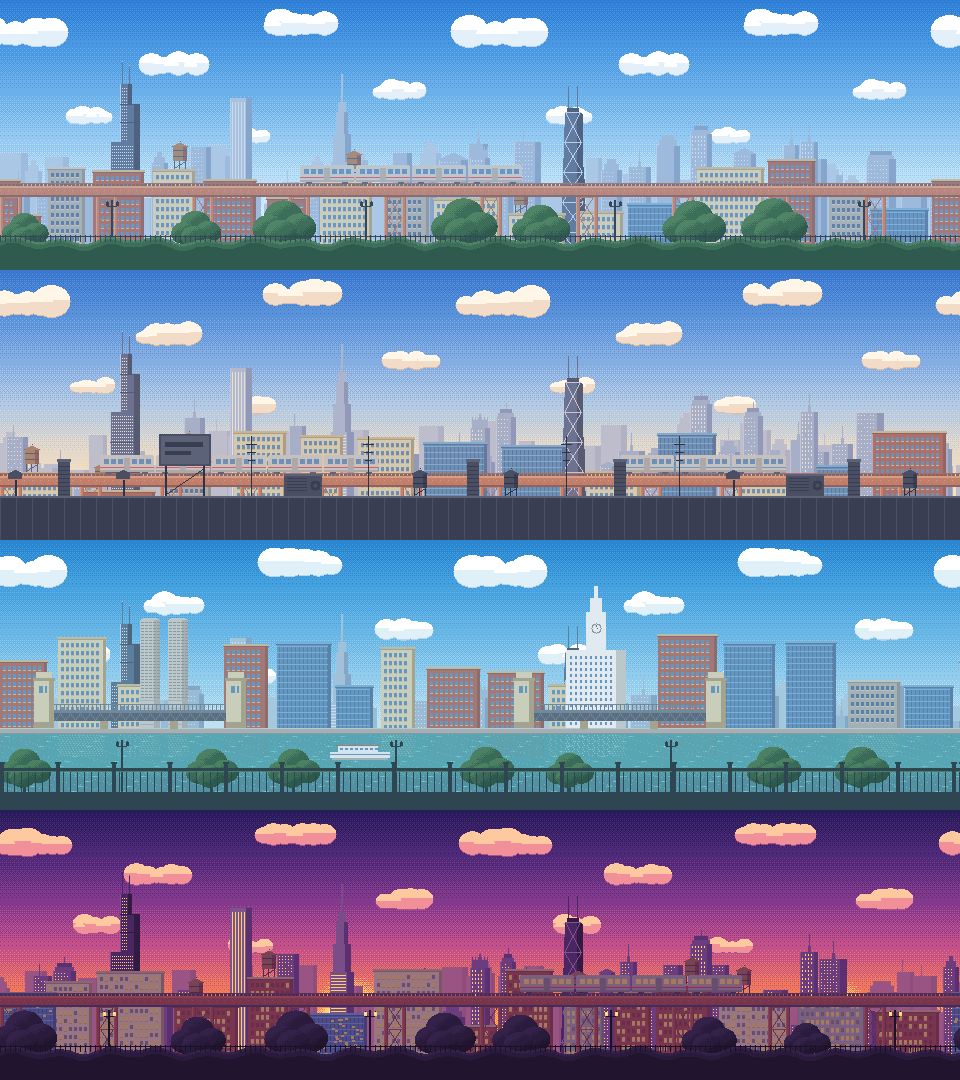
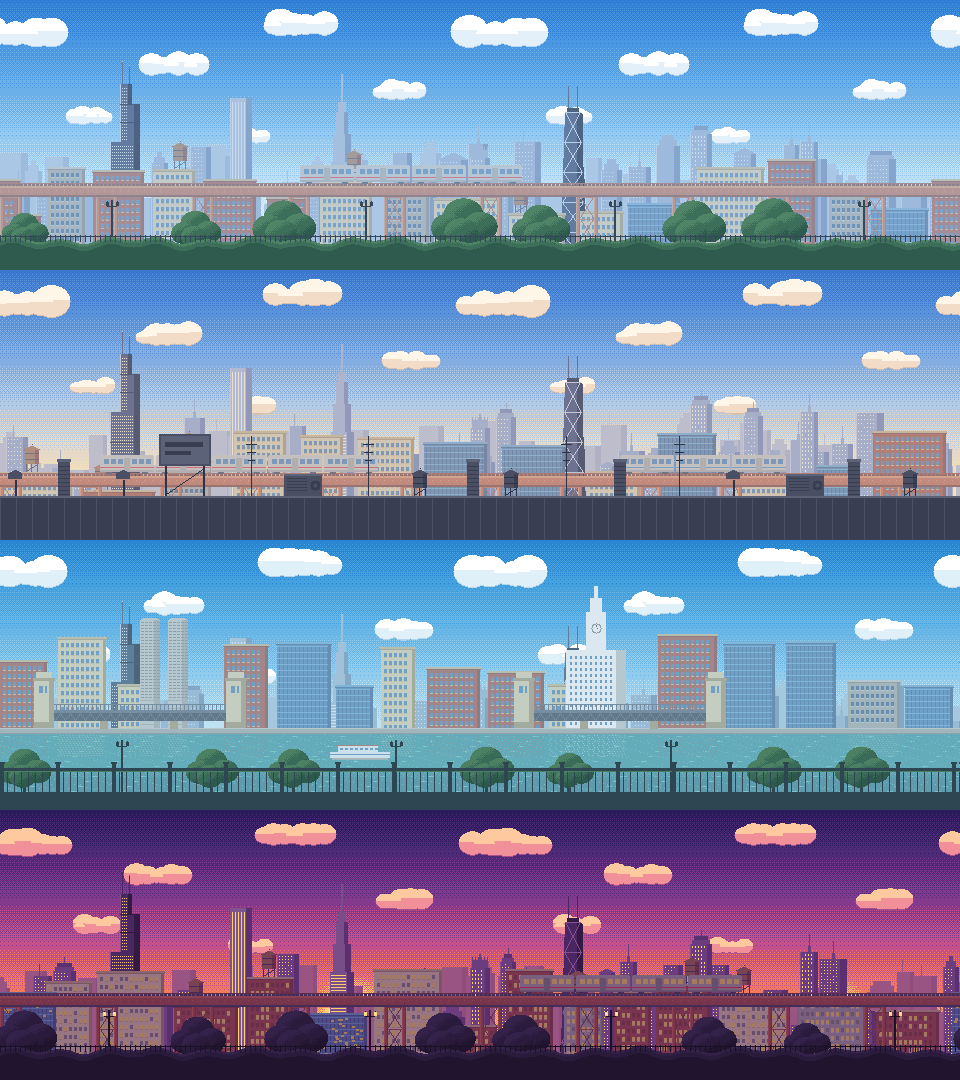
Art: hazier mid parallax layers, environment art validator and README
Claude-Session: https://claude.ai/code/session_01YMm4GmncJ8U4FPECy6uPid

Changed region(s): [[0.0, 0.1222, 1.0, 0.2444]]

diff --git a/tools/art/validate_env.py b/tools/art/validate_env.py
@@ -1,0 +1,101 @@
+#!/usr/bin/env python3
+"""Validate environment art (tileset, backgrounds, shared atlases) against
+src/game/data/assets.ts and tiles.ts. Exit 1 on failure.
+
+Checks: tileset size 256x64; every ATLAS.<key>.frames name exists; every anim has
+>= 2 frames `<anim>_0..n` contiguous; frames inside the sheet; hard alpha; sky layers
+opaque 270px tall; far/mid/near 270 tall with width a multiple of 480 and opaque
+pixels only in the lower part; logo / world-map present.
+"""
+import json
+import os
+import re
+import sys
+
+from PIL import Image
+
+ROOT = os.path.abspath(os.path.join(os.path.dirname(__file__), "..", ".."))
+A = os.path.join(ROOT, "public", "assets")
+errors = []
+
+
+def parse_atlas_contract():
+    src = open(os.path.join(ROOT, "src/game/data/assets.ts")).read()
+    body = src[src.index("export const ATLAS = {"):src.index("} as const;", src.index("export const ATLAS = {"))]
+    out = {}
+    for m in re.finditer(r"\n  (\w+): \{(.*?)\n  \},", body, re.S):
+        key = m.group(1)
+        blk = m.group(2)
+        def arr(name):
+            mm = re.search(name + r":\s*\[(.*?)\]", blk, re.S)
+            return re.findall(r"'([^']+)'", mm.group(1)) if mm else []
+        out[key] = (arr("frames"), arr("anims"))
+    return out
+
+
+def check_hard_alpha(im, label):
+    a = im.getchannel("A")
+    bad = [v for v, n in enumerate(a.histogram()) if n and v not in (0, 255)]
+    if bad:
+        errors.append(f"{label}: soft alpha values {bad[:5]}")
+
+
+def main():
+    t = Image.open(os.path.join(A, "tilesets", "chicago-tiles.png"))
+    if t.size != (256, 64):
+        errors.append(f"tileset size {t.size}")
+    check_hard_alpha(t.convert("RGBA"), "tileset")
+    for key, (frames, anims) in parse_atlas_contract().items():
+        jp = os.path.join(A, key + ".json")
+        if not os.path.exists(jp):
+            errors.append(f"missing atlas {key}")
+            continue
+        data = json.load(open(jp))["frames"]
+        sheet = Image.open(os.path.join(A, key + ".png")).convert("RGBA")
+        check_hard_alpha(sheet, key)
+        for f in frames:
+            if f not in data:
+                errors.append(f"{key}: missing frame {f}")
+        for an in anims:
+            n = 0
+            while f"{an}_{n}" in data:
+                n += 1
+            if n < 2:
+                errors.append(f"{key}: anim {an} has {n} frames")
+            sizes = {(data[f"{an}_{i}"]["frame"]["w"], data[f"{an}_{i}"]["frame"]["h"]) for i in range(n)}
+            if len(sizes) > 1:
+                errors.append(f"{key}: anim {an} mixed sizes {sizes}")
+        for name, fr in data.items():
+            r = fr["frame"]
+            if r["x"] + r["w"] > sheet.width or r["y"] + r["h"] > sheet.height:
+                errors.append(f"{key}:{name} outside sheet")
+            elif sheet.crop((r["x"], r["y"], r["x"] + r["w"], r["y"] + r["h"])).getbbox() is None:
+                errors.append(f"{key}:{name} empty")
+    for theme in ("day", "rooftop", "river", "sunset"):
+        for layer in ("sky", "far", "mid", "near"):
+            p = os.path.join(A, "backgrounds", f"bg-{theme}-{layer}.png")
+            if not os.path.exists(p):
+                errors.append(f"missing {p}")
+                continue
+            im = Image.open(p).convert("RGBA")
+            if im.height != 270 or im.width % 480:
+                errors.append(f"{p}: size {im.size}")
+            check_hard_alpha(im, p)
+            if layer == "sky" and im.getchannel("A").getextrema()[0] != 255:
+                errors.append(f"{p}: sky not opaque")
+            if layer != "sky":
+                bb = im.getbbox()
+                if bb and bb[1] < 40:
+                    errors.append(f"{p}: content reaches y={bb[1]}")
+                # columns 0 and w-1 should continue each other (wrap); just ensure both drawn similarly
+    for f in ("logo.png", "world-map.png"):
+        if not os.path.exists(os.path.join(A, f)):
+            errors.append(f"missing {f}")
+    if errors:
+        print("\n".join(errors))
+        sys.exit(1)
+    print("environment art OK")
+
+
+if __name__ == "__main__":
+    main()

diff --git a/tools/art/draw_backgrounds.py b/tools/art/draw_backgrounds.py
@@ -49,21 +49,21 @@ THEMES = {
         sky=["2f7fd6", "4a97e2", "6cb0ea", "93c8f0", "bde0f6", "dff1fb"],
         cloud="ffffff", cloud2="e3f0fa", cloud3="bcd6ee",
         haze="b9d8f2", far=["9db9db", "86a5cc", "7392bd", "b7cfe8"], far_win="c8dcf0",
-        mid_haze="a9c8e6", mid_t=0.42, near=["3d6e5a", "2f5a4e", "4f8466"], near_metal="34485a", near_t=0.2,
+        mid_haze="a9c8e6", mid_t=0.56, near=["3d6e5a", "2f5a4e", "4f8466"], near_metal="34485a", near_t=0.2,
         lamp_glow=None,
     ),
     "rooftop": dict(
         sky=["3b78cf", "5a92da", "84ade2", "b4c9e2", "e6d9c8", "f8e2b8"],
         cloud="fff6e8", cloud2="f2dcc8", cloud3="d7bfb0",
         haze="d8d0d0", far=["a7aec8", "9198b8", "7f86a8", "c4c6d6"], far_win="e8e0d0",
-        mid_haze="c2bcc4", mid_t=0.38, near=["4a4f63", "3a3e52", "5c6278"], near_metal="2f3346", near_t=0.15,
+        mid_haze="c2bcc4", mid_t=0.5, near=["4a4f63", "3a3e52", "5c6278"], near_metal="2f3346", near_t=0.15,
         lamp_glow=None,
     ),
     "river": dict(
         sky=["2a86d0", "45a0de", "68b6e6", "92cced", "bfe2f2", "e2f4f8"],
         cloud="ffffff", cloud2="e0f0f8", cloud3="b8d4e8",
         haze="b2d8ea", far=["98bcd6", "82a8c6", "6f95b8", "b4d0e4"], far_win="c8e0ee",
-        mid_haze="a4cce2", mid_t=0.40, near=["3a6a58", "2d584c", "4b8062"], near_metal="2e4652", near_t=0.18,
+        mid_haze="a4cce2", mid_t=0.5, near=["3a6a58", "2d584c", "4b8062"], near_metal="2e4652", near_t=0.18,
         lamp_glow=None,
     ),
     "sunset": dict(

diff --git a/tools/art/README.md b/tools/art/README.md
@@ -77,3 +77,81 @@ room (logged by the script). Physics bodies should be sized in code, not from fr
   walk cycles.
 - Small sources at 2.5-2.8x downscale (parker, lupin, gnat) lose some facial detail.
 - Some gnat/wasp/skirmisher die frames keep small spark bits from the sheet.
+
+---
+
+# Environment art (tiles, backgrounds, items, props, effects, platforms, UI, logo, map)
+
+Everything below is drawn procedurally in PIL at native resolution (no AI pixels):
+named palette + hard alpha + 1px dark (`ink` #1a1c2c) outlines on sprites, seeded RNG,
+so every output is reproducible. Shared helpers live in `pxl.py` (palette `P`, canvas
+`Cv`, 3x5 `FONT3` / 5x7 `FONT5` pixel fonts, `pack_atlas` → Phaser JSON Hash,
+`contact_sheet` previews).
+
+```sh
+python3 tools/art/draw_backgrounds.py   # public/assets/backgrounds/bg-<theme>-<layer>.png
+python3 tools/art/draw_tiles.py         # public/assets/tilesets/chicago-tiles.png (+ tiles-demo uses the day bg)
+python3 tools/art/draw_items.py         # items.png/json + ui.png/json
+python3 tools/art/draw_props.py         # props.png/json
+python3 tools/art/draw_effects.py       # effects.png/json
+python3 tools/art/draw_platforms.py     # platforms.png/json
+python3 tools/art/draw_logo_map.py      # logo.png, world-map.png, pixel-font.png
+python3 tools/art/validate_env.py       # contract checks for all of the above
+node tools/art/build-manifest.mjs
+```
+
+Previews in `art/previews/`: `tiles-sheet.png` (indexed), `tiles-seams.png` (3x4 self-tiling
+check of every fill under its top tile), `tiles-demo.png` (sample scene over the day
+parallax), `backgrounds.png` (all four themes composited), `items/ui/props/effects/platforms.png`,
+`logo.png`, `world-map.png`.
+
+## Tileset
+`chicago-tiles.png` 256x64, order generated from `src/game/data/tiles.ts` (the script parses
+the contract and asserts every name is drawn). Fill tiles are 16px-periodic; every `*_TOP`
+tile is its fill pattern with a bright walkable top band. Open/partial tiles (GIRDER_X,
+GIRDER_POST, SCAFFOLD_*, CHAIN_FENCE, PIPE_H, WOOD_POST, BRIDGE_TRUSS/RAIL, RAILING, BUSH,
+AWNING_*, WATER_TOP surface, SPIKES, ELECTRIC_RAIL arcs) have transparency.
+Notes: RAIL = steel running rail on ties on a girder (walkable track top); RAIL_TIE = ties
+only. WATER is static. BRIDGE_* steel is slate green-grey to read differently from the
+rust-red L steel.
+
+## Backgrounds
+sky 480x270 (opaque, ordered-dither gradient + clouds); far/mid/near 960x270, drawn with
+x-wrapping so they tile seamlessly. Content: far = skyline incl. Willis, Hancock, Trump,
+Aon, crown/spire towers; mid = day/sunset: hazed mid-rises + an L line with a train,
+rooftop: neighbouring rooftops + L below, river: far bank (Marina City, Wrigley Building),
+river with bascule bridges and a tour boat; near = trees/lamps/hedge (day, sunset),
+riverwalk railing (river), parapet + HVAC/water tanks/antennas/billboards (rooftop).
+Mid/far are hazed toward the sky colour so playfield tiles stay the highest-contrast layer.
+
+## Atlases (frame sizes)
+- **items**: coin_0-5, star_0-3, question_0-3, hotdog, pizza, cta_pass, one_up (red Chicago star),
+  souvenir_0-2, block_used, brick, bounce_pad_0/1 (0 = extended, 1 = compressed) — all 16x16.
+  checkpoint_off/on **34x48** (pole centred at x=17, flag extends right), goal_pole **54x96**
+  (pole centred, Chicago flag attached), goal_flag 27x17 (standalone flag).
+- **props** (bottom-anchored, variable sizes): lamp 16x48, hydrant 14x16, hotdog_cart 52x44,
+  bench 32x16, flag_pole 32x48, cone 12x16, barricade 32x22, news_box 16x24, trash_can(_broken)
+  18x18, planter 32x22, traffic_light 14x48, sign_wacker 44x34, sign_michigan 52x34, clock 18x48,
+  cta_entrance 48x48, bus_shelter 48x40, steam_vent 16x8, mailbox 16x22, tree 32x48.
+  Anims: pigeon_idle_0-3 / pigeon_fly_0-3 16x16, steam_0-5 16x32 (rising puffs, loop),
+  train_light_0-5 16x24 (railroad-crossing flasher, alternates every 3 frames).
+- **effects** (centred): dust 16x16x5, spark 16x16x4, explosion_small 24x24x6, explosion_large 48x48x8,
+  smoke 24x24x6, coin_burst 24x24x5, poof 24x24x5, energy_shot 16x16x4, alien_laser 24x8x4,
+  plasma_shot 16x16x4, drone_shot 12x12x4, shockwave 64x24x6, sniff 16x16x6, air_puff 24x16x5,
+  dash_trail 24x16x4, spawn_ring 32x32x6; debris_0/1 8x8; bolt 12x16 (lightning bolt).
+  Projectiles face right.
+- **platforms**: girder_2/3/4 32/48/64x16, plank_2/3 32/48x**8**, scaffold_3 48x16,
+  train_car 128x40, train_front 128x40 (lead car, cab on the right), boat 112x36 (top deck at y≈5-10),
+  bus 104x40, taxi 56x26, cop_car 56x26. Vehicles face right.
+- **ui**: heart_full/empty 11x10, coin_icon/star_icon/souvenir_icon(_empty) 12x12, lock 12x14,
+  btn_left/right/jump/action/pause 32x32 (opaque grey disc + white glyph: set alpha ~0.5 in code),
+  map_node(_locked/_done) 14x14.
+
+## Single images
+- `logo.png` 304x84 — "CHICAGO" on a Chicago-flag ribbon + "FAMILY ADVENTURE" banner.
+- `world-map.png` 480x270. District centres (for map nodes): loop (306,150), lincoln-park (318,72),
+  wrigleyville (290,22), navy-pier (398,110), museum-campus (382,196), chinatown (250,206),
+  south-side (276,242), ohare (62,44). The Loop is drawn highlighted; the rest are greyed.
+- `pixel-font.png` 96x24 — white 5x7 font in 6x8 cells, 16 per row, for Phaser RetroFont:
+  `chars: " !'-.,:/?0123456789ABCDEFGHIJKLMNOPQRSTUVWXYZ"`, width 6, height 8, charsPerRow 16
+  (key `pixel-font`).
